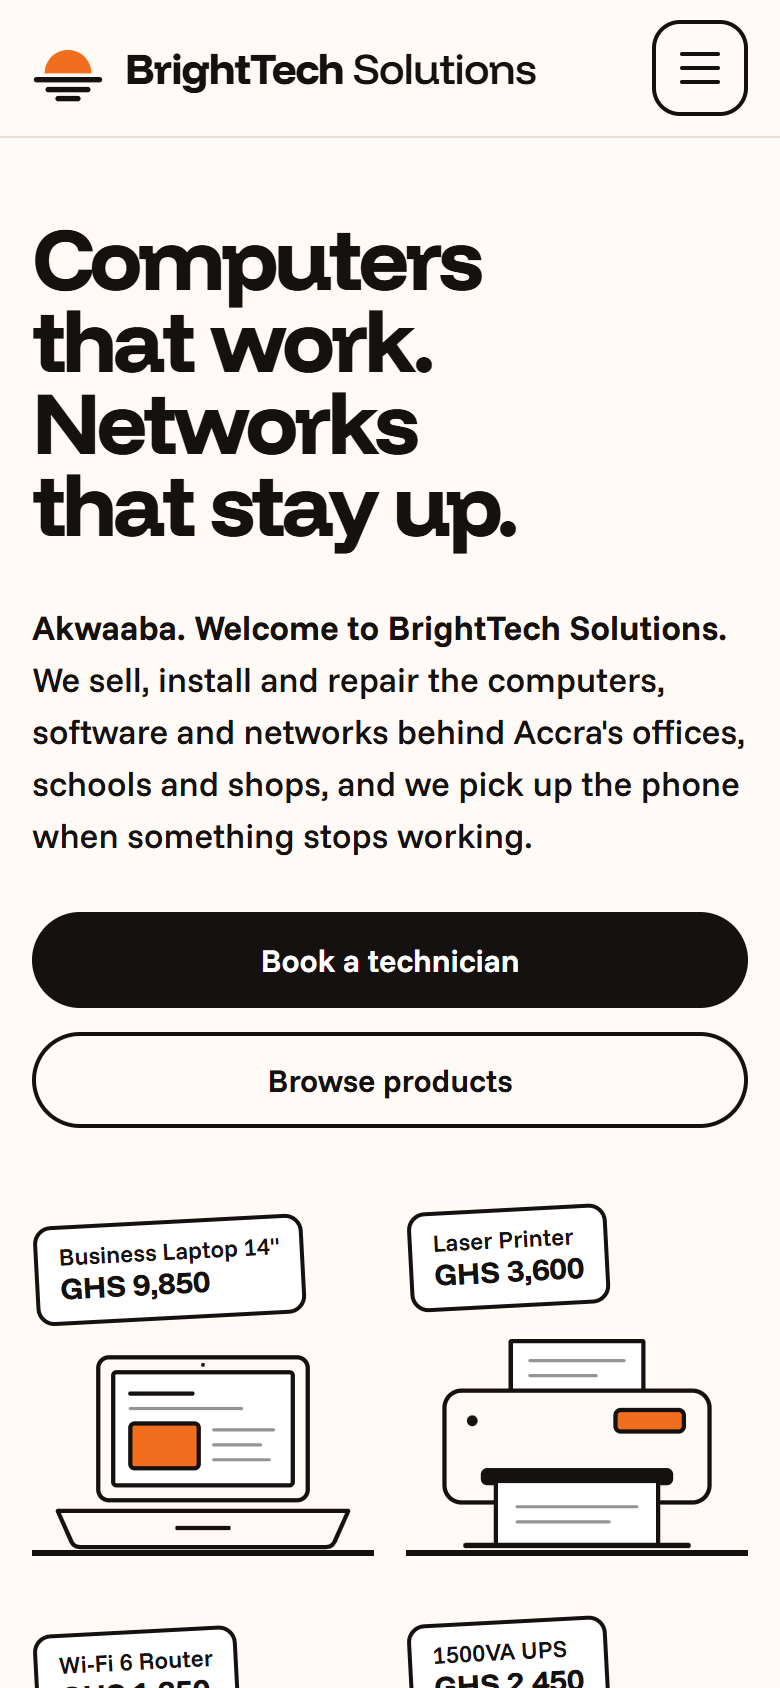
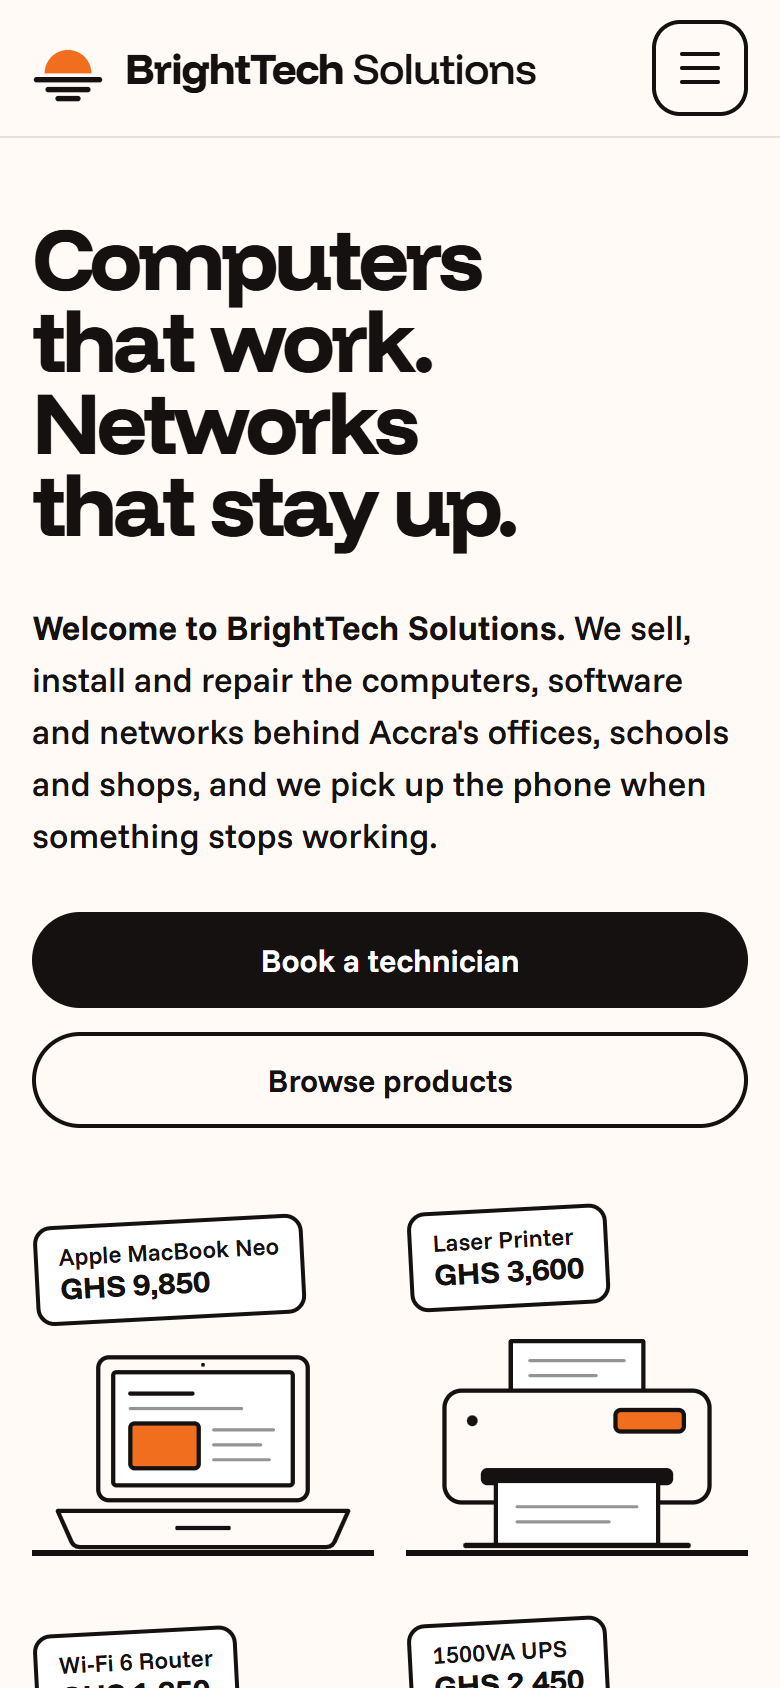
Bring the rest of the site in line with the new roles and laptop: team photo descriptions follow the names in each slot, Defred answers the help desk line, the README's roles table matches the team page, and the Products page sells the Apple MacBook Neo (Apple silicon, macOS) in its card, quote and 

Changed region(s): [[0.0308, 0.3389, 0.9538, 0.5237], [0.0615, 0.7085, 0.3385, 0.7701]]

diff --git a/team.html b/team.html
@@ -64,28 +64,28 @@
       <div class="wrap">
         <div class="team">
           <article class="member">
-            <img src="images/team/member-1.svg" alt="Portrait of Edze Prince Daniel" width="400" height="480">
+            <img src="images/team/member-1.svg" alt="Portrait of Anang Queenstar Atswei" width="400" height="480">
             <h2>Anang Queenstar Atswei</h2>
             <p class="role">Managing Director</p>
             <p>Queenstar leads the company and looks after our biggest customers, from schools to hotel groups, and is still the first to pick up a screwdriver when the workshop is busy.</p>
           </article>
           <article class="member">
-            <img src="images/team/member-2.svg" alt="Portrait of Anang Queenstar Atswei" width="400" height="480">
+            <img src="images/team/member-2.svg" alt="Portrait of Edze Prince Daniel" width="400" height="480">
             <h2>Edze Prince Daniel</h2>
             <p class="role">Head of Networking &amp; Security</p>
             <p>Daniel designs the cabling, Wi-Fi and CCTV for every site we take on, and signs off an installation only after testing the signal in every room.</p>
           </article>
           <article class="member">
-            <img src="images/team/member-3.svg" alt="Portrait of Atta Bansah Defred" width="400" height="480">
+            <img src="images/team/member-3.svg" alt="Portrait of Caleb Apemenyor Tawiah" width="400" height="480">
             <h2>Caleb Apemenyor Tawiah</h2>
             <p class="role">Lead Software Engineer</p>
             <p>Caleb runs Windows and Microsoft 365 rollouts, accounting software and backups, and trains each customer's staff until the new system feels ordinary.</p>
           </article>
           <article class="member">
-            <img src="images/team/member-4.svg" alt="Portrait of Caleb Apemenyor Tawiah" width="400" height="480">
+            <img src="images/team/member-4.svg" alt="Portrait of Atta Bansah Defred" width="400" height="480">
             <h2>Atta Bansah Defred</h2>
             <p class="role">Customer Support Manager</p>
-            <p>Defred runs the help desk and the support plans. Call 054 783 9203 and there is a good chance Caleb answers, and a better chance it gets solved on that call.</p>
+            <p>Defred runs the help desk and the support plans. Call 054 783 9203 and there is a good chance Defred answers, and a better chance it gets solved on that call.</p>
           </article>
         </div>
       </div>

diff --git a/products.html b/products.html
@@ -80,15 +80,15 @@
 
           <ul class="product-grid">
             <li class="product cat-computers">
-              <div class="product-image"><img src="images/products/laptop.svg" alt="Business laptop" width="320" height="240" loading="lazy"></div>
+              <div class="product-image"><img src="images/products/laptop.svg" alt="Apple MacBook Neo" width="320" height="240" loading="lazy"></div>
               <div class="product-body">
-                <h2>Business Laptop 14"</h2>
-                <p>Intel Core i5, 16 GB memory, 512 GB SSD and Windows 11 Pro. Light enough for the trotro, quick enough for month-end spreadsheets.</p>
+                <h2>Apple MacBook Neo</h2>
+                <p>Apple silicon, 16 GB memory, 512 GB SSD and macOS. Light enough for the trotro, quick enough for month-end spreadsheets.</p>
                 <p class="price"><span>GHS</span> 9,850</p>
                 <div class="product-actions">
-                  <input class="quote-tick" type="checkbox" id="q-laptop" name="quote" value="Business Laptop 14&quot;" form="quote-form">
+                  <input class="quote-tick" type="checkbox" id="q-laptop" name="quote" value="Apple MacBook Neo" form="quote-form">
                   <label class="btn btn-small quote-add" for="q-laptop"><span class="when-off">Add to quote</span><span class="when-on">In your quote</span></label>
-                  <a class="order-link" href="mailto:princedze@gmail.com?subject=Order%3A%20Business%20Laptop%2014%22">Order by email</a>
+                  <a class="order-link" href="mailto:princedze@gmail.com?subject=Order%3A%20Apple%20MacBook%20Neo">Order by email</a>
                 </div>
               </div>
             </li>
@@ -197,7 +197,7 @@
           <div>
             <h2 id="quote-title">Your quote</h2>
             <ul class="quote-lines">
-              <li class="line-laptop"><span>Business Laptop 14"</span><b>GHS 9,850</b><label for="q-laptop">Remove</label></li>
+              <li class="line-laptop"><span>Apple MacBook Neo</span><b>GHS 9,850</b><label for="q-laptop">Remove</label></li>
               <li class="line-desktop"><span>Office Desktop Set</span><b>GHS 7,400</b><label for="q-desktop">Remove</label></li>
               <li class="line-printer"><span>Laser Printer</span><b>GHS 3,600</b><label for="q-printer">Remove</label></li>
               <li class="line-ups"><span>1500VA UPS</span><b>GHS 2,450</b><label for="q-ups">Remove</label></li>

diff --git a/index.html b/index.html
@@ -65,8 +65,8 @@
         <ul class="shelf" aria-label="Popular products">
           <li class="shelf-item">
             <a href="products.html">
-              <img src="images/products/laptop.svg" alt="Business laptop" width="320" height="240">
-              <span class="price-tag">Apple Macbook Neo <b>GHS 9,850</b></span>
+              <img src="images/products/laptop.svg" alt="Apple MacBook Neo" width="320" height="240">
+              <span class="price-tag">Apple MacBook Neo <b>GHS 9,850</b></span>
             </a>
           </li>
           <li class="shelf-item">

diff --git a/README.md b/README.md
@@ -17,10 +17,10 @@ libraries. Every file the site uses is in this repository; the one outside item 
 
 | No. | Name | Index number | Role at BrightTech | Built |
 |---|---|---|---|---|
-| 1 | Edze Prince Daniel | 26104018 | Managing Director | Home page, header and navigation, page transitions, colour scheme and typography |
-| 2 | Anang Queenstar Atswei | 26104029 | Head of Networking & Security | About us and Services pages, history timeline, support plans table, responsive layout |
-| 3 | Atta Bansah Defred | 26104026 | Lead Software Engineer | Our team and Products pages, product filter, quote builder, product drawings |
-| 4 | Caleb Apemenyor Tawiah | 26103238 | Customer Support Manager | Contact page and form, thank-you and not-found pages, video and audio, footer, GitHub Pages |
+| 1 | Edze Prince Daniel | 26104018 | Head of Networking & Security | Home page, header and navigation, page transitions, colour scheme and typography |
+| 2 | Anang Queenstar Atswei | 26104029 | Managing Director | About us and Services pages, history timeline, support plans table, responsive layout |
+| 3 | Atta Bansah Defred | 26104026 | Customer Support Manager | Our team and Products pages, product filter, quote builder, product drawings |
+| 4 | Caleb Apemenyor Tawiah | 26103238 | Lead Software Engineer | Contact page and form, thank-you and not-found pages, video and audio, footer, GitHub Pages |
 
 ---
 
